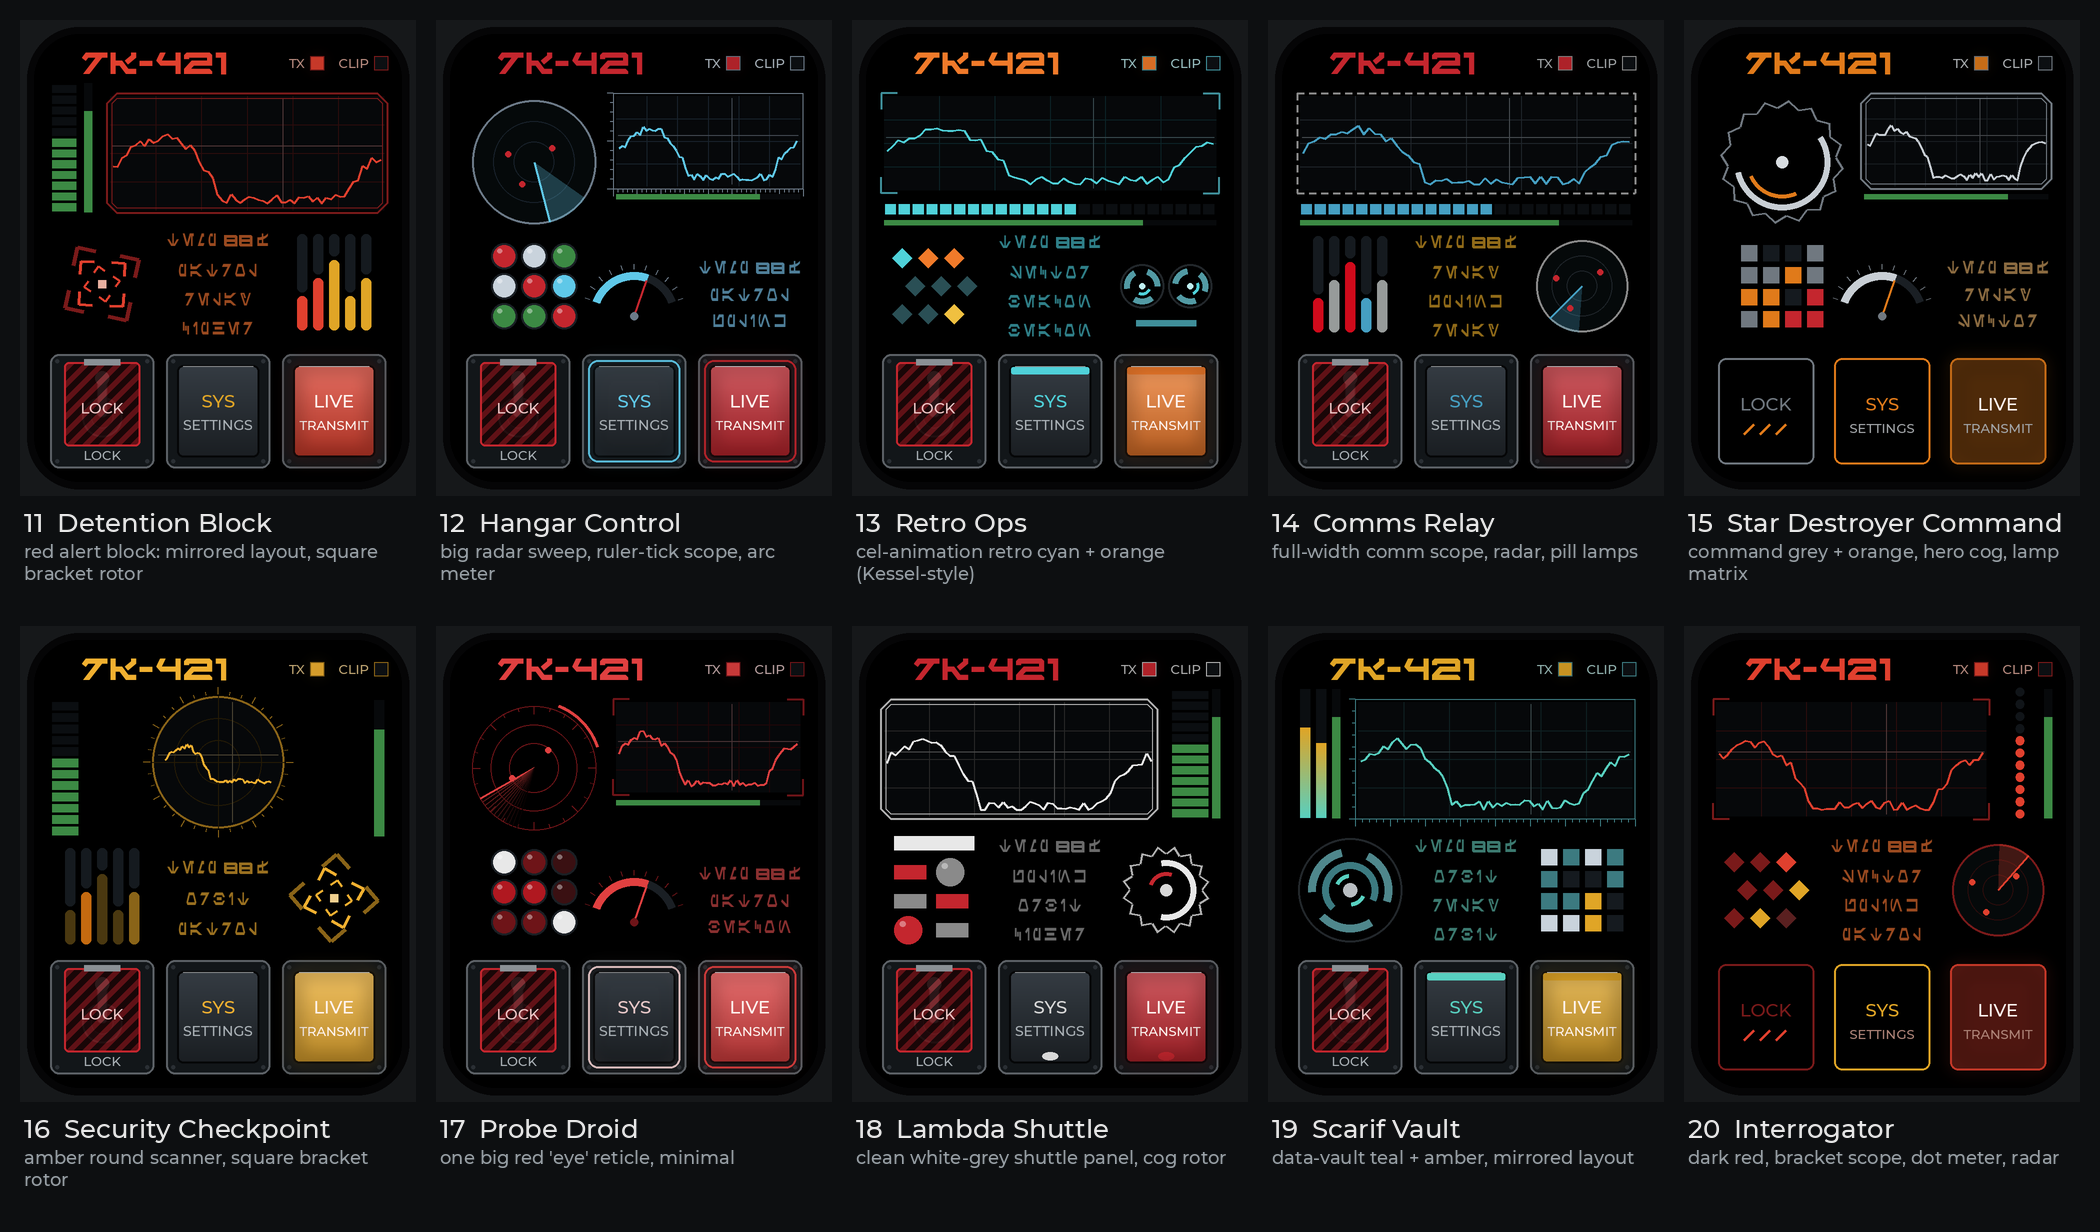
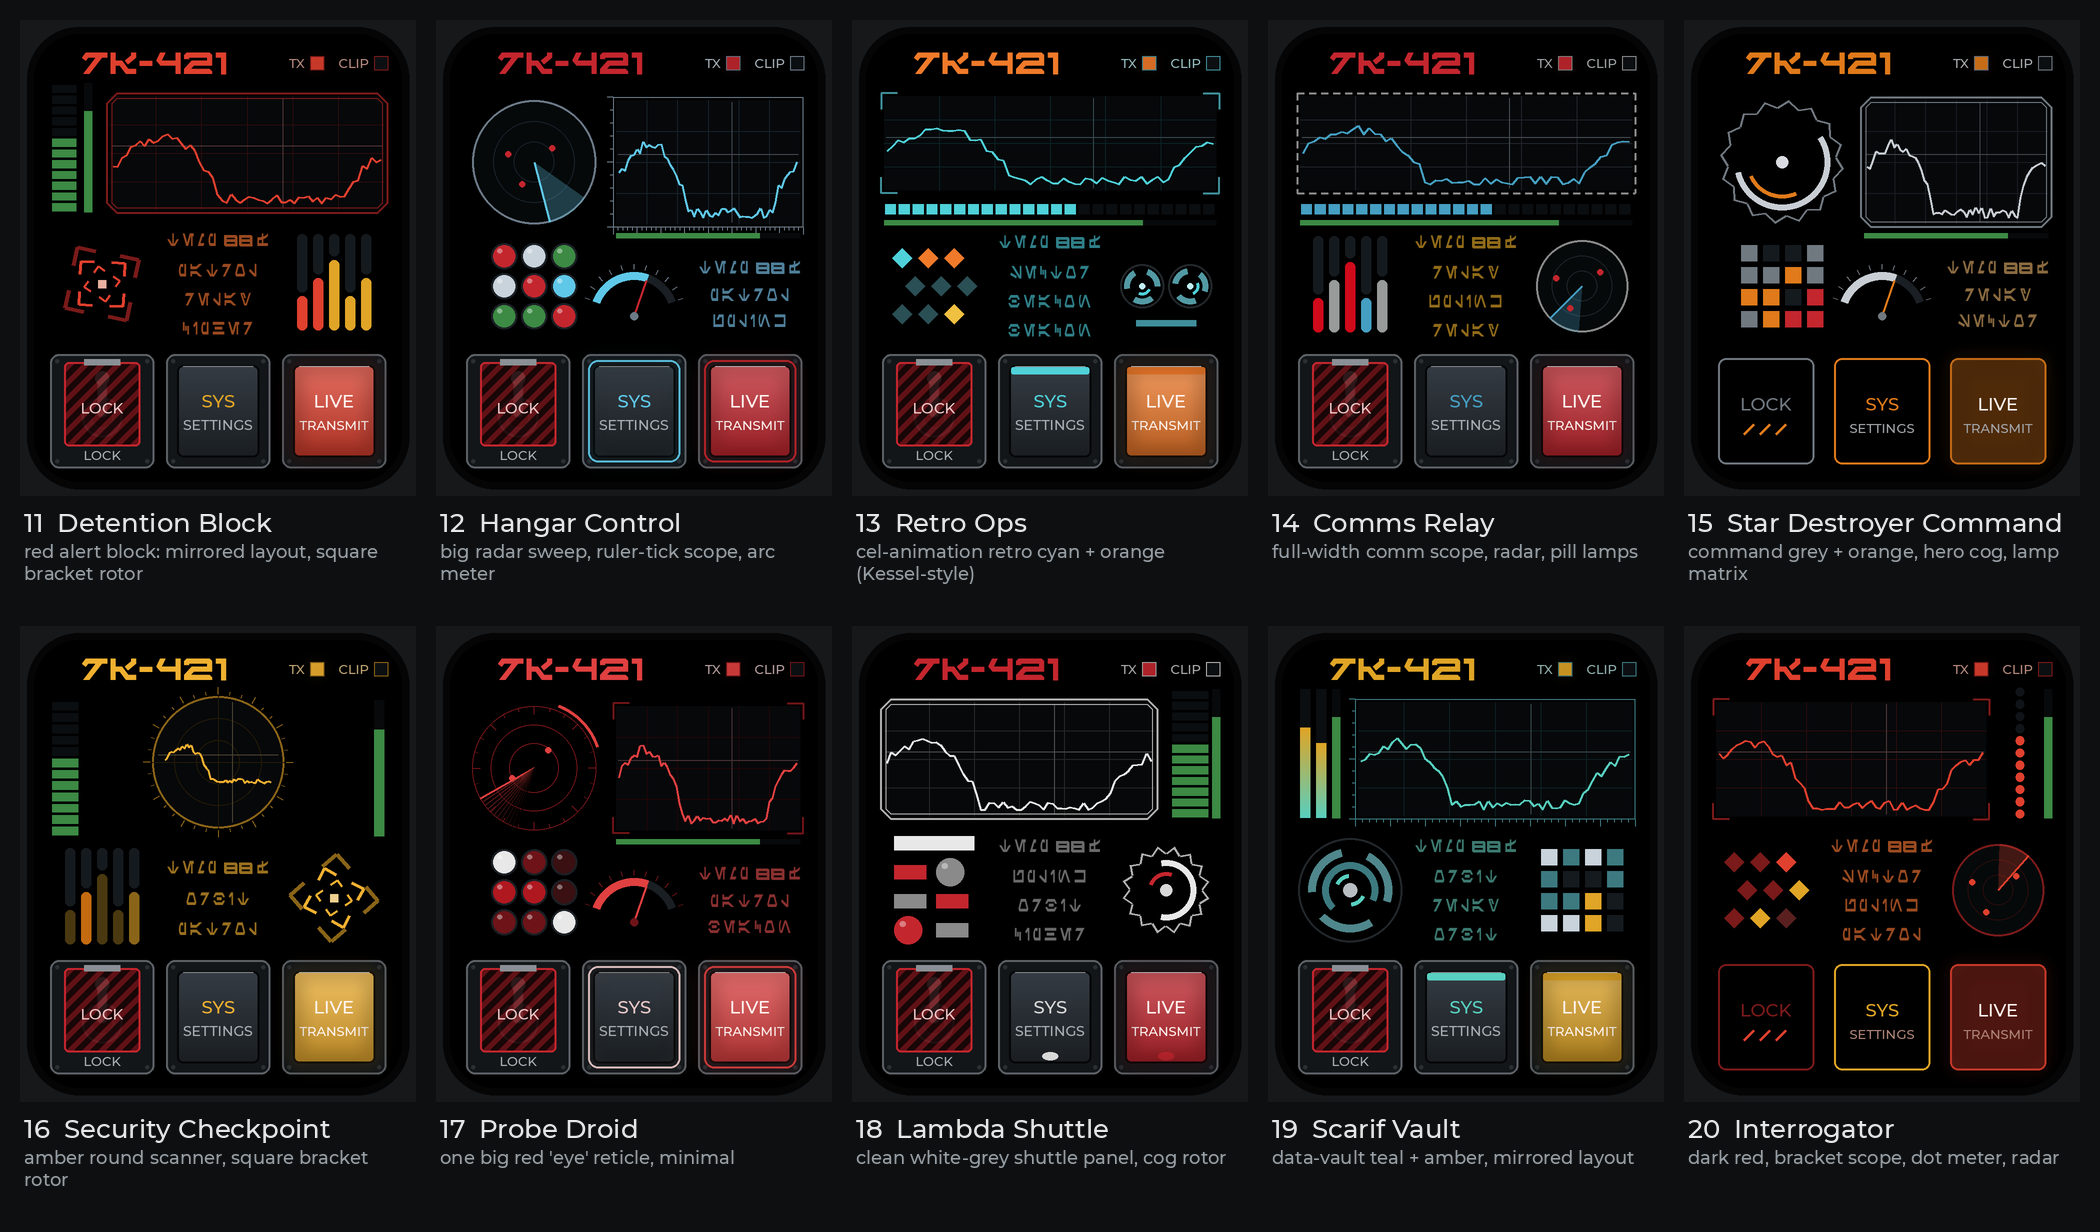
Concepts 10/12/15/17: waveform box matches the rotor's height and centre
Claude-Session: https://claude.ai/code/session_014PmTqdRFYRCH22NdKcRT7c

diff --git a/design/skins/concepts/make_concepts.py b/design/skins/concepts/make_concepts.py
@@ -474,9 +474,9 @@ def layout_hero(sc, c, t):
     """big rotor top-left, scope top-right, arc meter, lamps + readout below"""
     p = PAL[c["pal"]]
     ROTORS[c["rotor"]](sc, 84, 128, p, t, **({"r": 62} if c["rotor"] in ("scomp", "reticle", "radar", "gear", "square") else {}))
-    scope_rect(sc, (166, 62, 350, 152), p, c["frame"], t)
+    scope_rect(sc, (166, 66, 350, 190), p, c["frame"], t)   # same height + centre (y 128) as the rotor
     meter_arc(sc, 184, 282, 44, p, 64)          # centre of the middle row, between lamps and readout
-    batt_h(sc, 166, 350, 160)
+    batt_h(sc, 166, 350, 199)
     LAMPS[c["lamps"]](sc, 84, 252, p, c["seed"]) if c["lamps"] != "switcher" else lamps_switcher(sc, 84, 256, p, c["seed"], cols=6, rows=4)
     readout(sc, 300, 260, p, c["seed"], lines=3, pitch=26)
 
